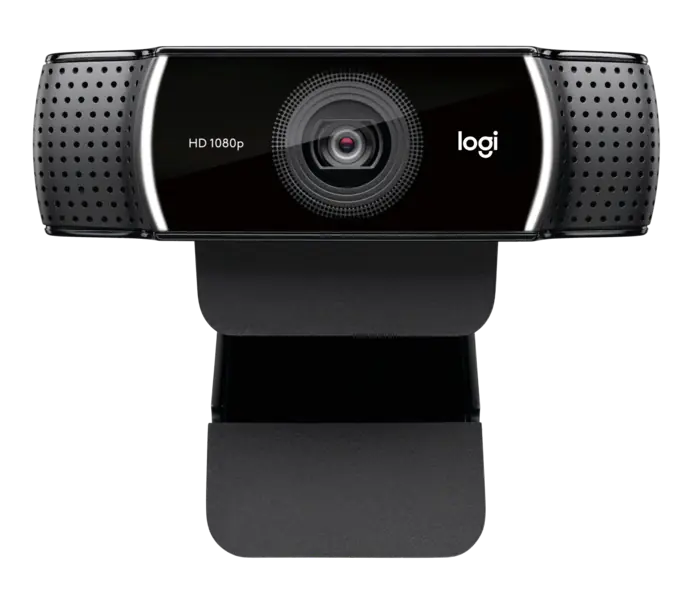
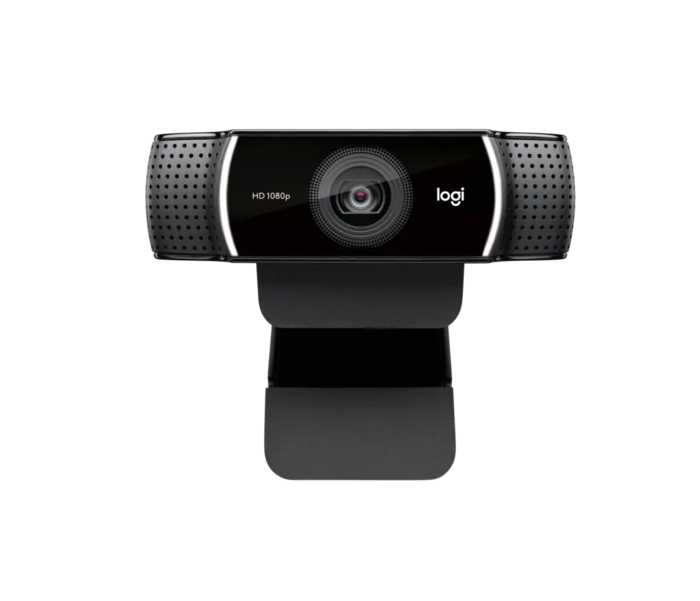
Normalize webcam photo backgrounds and scale

diff --git a/PROJECT_STATUS.md b/PROJECT_STATUS.md
@@ -1,3 +1,6 @@
+Warning: truncated output (original token count: 29241)
+Total output lines: 921
+
 # PROJECT_STATUS.md — АКС current state
 
 Last updated: 2026-11-04
@@ -348,319 +351,7 @@ READY FOR SUPABASE OWNER SETUP. Публичная конфигурация по
 - В `admin/config.js` добавлены URL проекта и публичный publishable key Supabase; секретные и `service_role` ключи не добавлялись.
 - Коммит подключения: `d5017d25121347c909ebce1ad0d0b9c8aefd1440`.
 - Проверено на опубликованной странице `/admin/`: конфигурация загружается, вместо сообщения «Supabase еще не настроен» отображается защищенная форма входа.
-- Импорт товаров и переключение публичного каталога на Supabase не выполнялись.
-- Для завершения проверки владелец должен создать пользователя Supabase Auth и добавить его UUID в `public.catalog_admins`; после этого можно проверить реальный вход, RLS, загрузку товаров и Storage.
-
-
-## Подготовка импорта существующего каталога без цен (2026-10-19)
-
-- В админку добавлена защищенная кнопка «Импорт каталога без цен».
-- Импорт читает текущий `products.json`, создает 54 категории и добавляет 578 товаров с сохранением исходных ID.
-- Для всех новых записей `price_tjs` остается `NULL`; повторный запуск пропускает существующие ID и не стирает будущие цены.
-- Существующие изображения и характеристики сохраняются в полях товара и галерее.
-- Код проверен на синтаксис; фактический импорт еще не запускался, пока владелец не войдет в админку и не подтвердит действие.
-- Изменения: `admin/index.html` — `86a54711cd9161241b64aea3f865a77581bad54e`; `admin/admin.js` — `c857b402b304f2939921f37919ea439ea404aa9c`.
-
-## Laptop photo stage 2 — remaining non-placeholder laptops (2026-10-20)
-
-- Обработаны только laptop-011 и laptop-012.
-- Файлы и записи laptop-001…laptop-010 не изменялись.
-- laptop-008 и laptop-009 оставлены заглушками по заданному ограничению.
-- Фильтры, карточки кроме image-slot, характеристики, цены, SKU, price.csv и архитектура product.html?id=PRODUCT_ID не изменялись.
-- laptop-011: exact product-page source; добавлено 4 уникальных WebP: assets/products/laptop-011/main.webp, assets/products/laptop-011/angle.webp, assets/products/laptop-011/back.webp, assets/products/laptop-011/detail.webp.
-- laptop-012: exact configuration fallback; добавлено 2 WebP: assets/products/laptop-012/main.webp, assets/products/laptop-012/angle.webp.
-- Для laptop-011 использована точная страница MSI Crosshair 16 HX AI D2XWGKG-271NG; для laptop-012 — точная карточка Lenovo IdeaPad Slim 3 15IRU8, 82X700EDUS.
-- Изображения скачаны в репозиторий, приведены к WebP до 1000 px для основного кадра и до 1400 px для дополнительных; краевой белый фон удаляется только из связной области фона, чтобы не затрагивать детали корпуса.
-- Техническая готовность следующего этапа: каталог ноутбуков и универсальная страница уже используют локальные image/images; для остальных категорий отдельные фото пока не подключались.
-- Права на повторное коммерческое размещение внешних assets требуют отдельной ручной проверки.
-
-
-## Monoblock photo stage (2026-10-20)
-
-Base stage commit: 9ec8a39d671655307017538c35ad6e2e3dda73bc. Final photo correction replaced rejected non-product assets. Laptop files and PHOTO_PROGRESS.json remain untouched.
-All 7 monoblock records were checked. Only exact model/configuration sources were retained; similar models, generic banners and logos were excluded.
-
-### Results
-
-- mono-001 — Моноблок HP 200 G4 AIO: complete, 6 WebP; main photo assets/products/mono-001/main.webp.
-- mono-002 — Моноблок HP 290: placeholder; reason: В каталоге указано только «HP 290» без поколения, артикула и точного форм-фактора; подтверждённое фото именно этой AIO-модификации не найдено.
-- mono-003 — Моноблок HP AIO 27-CR0008L: complete, 3 WebP; main photo assets/products/mono-003/main.webp.
-- mono-004 — Моноблок Lenovo IdeaCentre 27IRH9, Core i7: complete, 4 WebP; main photo assets/products/mono-004/main.webp.
-- mono-005 — Моноблок Lenovo IdeaCentre 27IRH9, Core i5: complete, 5 WebP; main photo assets/products/mono-005/main.webp.
-- mono-006 — Моноблок MSI Pro AP272P AIO 27: complete, 5 WebP; main photo assets/products/mono-006/main.webp.
-- mono-007 — Моноблок HP AIO 27-CR0156NH: complete, 3 WebP; main photo assets/products/mono-007/main.webp.
-
-### Checks
-
-Changed product image links only for monoblock records with verified images; product names, IDs, SKUs, characteristics, prices and filters were preserved.
-The monoblock catalog card paths remain the same main.webp slots, and the existing product.html?id=mono-XXX gallery architecture remains unchanged.
-All replacement assets are WebP, are not artificially enlarged, and use border-connected white-background removal only.
-External-image reuse rights still require manual review; source pages and direct image URLs are recorded in MONOBLOCK_PHOTO_PROGRESS.json.
-
-### Next proposed stage
-
-After owner review, continue with photos for other categories. Laptops after commit 9ec8a39 remain outside this stage.
-
-## Monoblock card/photo corrections (2026-10-20)
-
-- Fixed the existing monoblock card image layering in rgw_page_monoblocks.html: the image keeps its hover transform, while the brand badge now has a higher stacking level and remains above the transformed image.
-- Kept the card dimensions, brand badge appearance, filter markup, product data attributes and filter script unchanged.
-- Reduced only the existing image hover scale from 1.06 to 1.03 and retained the existing .25s transition; the image wrapper keeps object-fit: contain, adds internal box sizing, and uses a small consistent inset.
-- Reframed the main images for mono-001, mono-003 and mono-007 on a transparent square canvas so the complete HP device remains visible with margins. Additional gallery files were not replaced.
-- Replaced only assets/products/mono-006/main.webp with a single-unit exact PRO AP272P 14M frame from the official MSI Gallery. products.json image paths and the four additional gallery files were preserved.
-- Updated MONOBLOCK_PHOTO_PROGRESS.json with the corrected MSI source and resulting asset metadata.
-
-### Scope and checks
-
-- Confirmed the seven monoblock card IDs remain present; mono-002 remains the existing placeholder.
-- Hash-guarded products.json, price.csv, product.html, product.js, all laptop files, and every non-monoblock category page; the correction script aborts if any of them changes.
-- Confirmed the catalog markup outside the monoblock page CSS block is byte-for-byte unchanged.
-- Confirmed the page still points to the same main.webp paths and the universal product.html?id=mono-XXX gallery continues to receive the existing images[] arrays.
-- GitHub Pages publication and interactive browser hover checks are performed after the commit; if the environment cannot provide an interactive browser, that limitation will be reported explicitly.
-
-
-## Published verification — monoblock card correction (2026-10-20)
-
-- GitHub Pages build/deployment for the correction commit e6e80a8647a9eb64d841a38d4a919aac85c1db71 completed successfully (run 39471990812).
-- Static verification confirmed all seven monoblock cards, 26 existing monoblock WebP gallery files, unchanged product-page gallery logic, unchanged protected files, and the responsive image rules.
-- An interactive browser/screenshot runtime was not available in this environment, so live hover/touch interaction and pixel-level visual comparison could not be performed here. The CSS and asset checks were completed from the published source tree and deployment result.
-
-## Lenovo monoblock photo scale correction (2026-10-20)
-
-- Reframed only the main images for mono-004 (Lenovo IdeaCentre 27IRH9 Core i7) and mono-005 (Lenovo IdeaCentre 27IRH9 Core i5) on a 1000x1000 transparent canvas with a 0.74 visible-image ratio, preserving proportions and adding margins around the complete device.
-- Kept the existing monoblock CSS unchanged: the Lenovo badge remains above the image and the existing smooth hover animation, transition and card dimensions are preserved.
-- Did not modify HP mono-001, mono-003 or mono-007, MSI mono-006, the mono-002 placeholder, or any additional gallery image.
-- Product IDs, SKUs, titles, characteristics, prices, products.json, product.html, product.js, price.csv, filters, laptops and other categories remain protected.
-
-### Scope checks
-
-- Checked all seven monoblock card IDs and retained the existing main.webp links and product gallery arrays.
-- Protected every other asset under assets/products, every category page, product-page files, product data and price.csv; the correction script aborts on an unexpected change.
-- GitHub Pages and interactive visual checks are completed after the final commit; an unavailable browser runtime will be recorded explicitly.
-
-
-## Published verification — Lenovo monoblock scale correction (2026-10-20)
-
-- GitHub Pages build/deployment for the Lenovo correction commit 81b422429dbfd330aedeff6b5e09b9e23b15cb16 completed successfully (run 39472893741).
-- Static verification confirmed that all seven monoblock cards remain linked, all 26 monoblock WebP assets remain present, and the current badge layering, hover scale, transition, mobile rule and product gallery paths are unchanged.
-- An interactive browser/screenshot runtime was not available in this environment, so live hover/touch and pixel-level visual comparison could not be performed here; this limitation is recorded explicitly.
-
-
-## System-unit photo stage (2026-10-20)
-
-- Обработаны все 8 карточек категории «Системные блоки» (case-001—case-008).
-- Для каждой модели использованы точные официальные страницы/файлы DeepCool; похожие модели и чужие изображения не подставлялись.
-- Главные и дополнительные кадры скачаны, приведены к WebP без искусственного увеличения; белый фон удалён только из связной краевой области, если он был встроен.
-- Каталог и product.html?id=... используют существующую архитектуру: изменены только image-слоты системных блоков и поля image/images для этих восьми записей.
-- CSS, анимация карточек, цены, характеристики, названия, SKU, ID, price.csv, ноутбуки, моноблоки и остальные категории не изменялись.
-
-### Результаты
-
-- case-001 — DeepCool CASE CH 370 WHITE: 5 WebP, главное фото images/products/case-001/main.webp.
-- case-002 — DeepCool CASE CH 370 BLACK: 5 WebP, главное фото images/products/case-002/main.webp.
-- case-003 — DeepCool CASE CG530 4F: 5 WebP, главное фото images/products/case-003/main.webp.
-- case-004 — DeepCool CASE CG580 4F V2: 5 WebP, главное фото images/products/case-004/main.webp.
-- case-005 — DeepCool CASE MATREXX 50: 5 WebP, главное фото images/products/case-005/main.webp.
-- case-006 — DeepCool CASE CH 160 WHITE: 5 WebP, главное фото images/products/case-006/main.webp.
-- case-007 — DeepCool CASE CC560 LIMITED V2: 5 WebP, главное фото images/products/case-007/main.webp.
-- case-008 — DeepCool CASE CG380 3F: 5 WebP, главное фото images/products/case-008/main.webp.
-
-### Источники
-
-- Официальные страницы DeepCool и соответствующие CDN-пути указаны в SYSTEM_UNIT_PHOTO_PROGRESS.json.
-- Права на повторное коммерческое размещение внешних изображений требуют отдельной ручной проверки.
-
-### Проверки
-
-- Сверены все 8 ID, SKU и названия с текущим каталогом.
-- Галерея использует существующий product.js и массив images[]; filter/sort/card layout не переписывались.
-- Перед коммитом проверяется, что изменены только системные image-слоты, новые локальные WebP, progress-файл и этот статус.
-\n\n## Published verification — system-unit photo stage (2026-10-20)\n\n- GitHub Pages build/deployment for the system-unit photo commit f5c765fa959248760d03759530d01373a292cf53 completed successfully (run 39474394312).\n- Static verification confirmed all 8 system-unit IDs, 40 local WebP files, catalog image slots, existing product.html?id=... gallery wiring, unchanged prices and unchanged non-image product data.\n- The final diff contains no laptop, monoblock or other-category page/assets; the temporary processing workflow/script were removed from the final tree.\n- An interactive browser/screenshot runtime is not available in this environment, so live visual inspection of the published pages could not be performed here; the source-tree and Pages deployment checks were completed.\n
-
-## Исправление дублирования чекбоксов системных блоков (2026-10-20)
-
-- В соответствующем файле категории `rgw_page_system_units.html` устранено двойное отображение: настоящий `input[type="checkbox"]` сохранён для работы фильтра, а его нативная отрисовка визуально скрыта тем же правилом, что используется в `rgw_page_monoblocks.html`.
-- Кастомные `.checkmark`, RGW-цвет, hover строки, checked-галочка, переходы, focus и reduced-motion не менялись.
-- Проверены все группы с checkbox: «Производитель» (1 значение) и «Цвет» (2 значения); у каждого input остался ровно один `.checkmark`.
-- JS фильтрации не переписывался: сохранён существующий обработчик `change`, а выбор/снятие checkbox по-прежнему обновляет карточки и счётчики.
-- Карточки, фотографии, цены, характеристики, SKU, ID, данные товаров и другие категории не изменялись.
-- Выполнена статическая проверка HTML/CSS/JS. Интерактивный браузерный runtime для live-проверки hover/tap в окружении недоступен; публикация GitHub Pages проверяется отдельно.
-
-
-## Этап: фотографии комплектующих (2026-10-20)
-
-Обработаны все 9 подкатегорий раздела «Комплектующие» и все 137 товарных записей:
-
-- Видеокарты — 8
-- Процессоры — 17
-- Материнские платы — 16
-- Оперативная память — 11
-- SSD — 22
-- HDD — 8
-- Корпуса — 17
-- Блоки питания — 17
-- Охлаждение — 21
-
-Итог по фото:
-
-- 22 товара имеют подключённые фотографии;
-- 14 наборов фотографий добавлены в рамках этого этапа;
-- добавлено 41 новых WebP-файлов;
-- 115 товаров оставлены с заглушками, потому что точный официальный ассет не удалось подтвердить;
-- сохранены 8 ранее подтверждённых наборов компонентных фото;
-- подробный перечень по каждому ID, путям, источникам и причинам пропуска находится в `COMPONENTS_PHOTO_PROGRESS.json`.
-
-Добавленные источники точных моделей: ASUS, GIGABYTE, Samsung, Western Digital, DeepCool и GamerStorm/DeepCool. Для корпусов, блоков питания и охлаждения DeepCool использованы прямые product-gallery ассеты производителя; фоновые изображения сайта не использовались. Неподтверждённые изображения похожих моделей не добавлялись. В частности, изображения WD Purple 6 ТБ и 8 ТБ удалены после проверки: официальные страницы отдавали один и тот же URL изображения 1 ТБ.
-
-Подключение проверено статически:
-
-- JSON товаров корректен;
-- все 22 подключённых пути существуют;
-- карточки 9 страниц категорий ссылаются на соответствующие `images/products/<ID>/main.webp`;
-- дополнительные галерейные файлы подключены в `products.json`;
-- WebP-файлы прошли загрузку и преобразование через Pillow в GitHub Actions.
-
-В рамках этапа не изменялись ноутбуки, моноблоки и системные блоки, цены, `price.csv`, характеристики, названия, ID, SKU, `product.html`, `product.js`, фильтры, карточки и дизайн сайта. Временные инструменты сбора после завершения удалены из репозитория.
-
-Браузерная визуальная проверка из текущего окружения недоступна; проверка GitHub Pages выполнена по статусу публикации Actions.
-
-<!-- COMPONENTS PHOTO STAGE V2 START -->
-## Повторный полный проход фотографий комплектующих (2026-10-21)
-
-Проверены все 137 товаров девяти подкатегорий раздела «Комплектующие»: Видеокарты, Процессоры, Материнские платы, Оперативная память, SSD, HDD, Корпуса, Блоки питания и Охлаждение.
-
-- новые точные наборы добавлены для **46** товаров; существующие подтверждённые наборы сохранены для **22** товаров; заглушки оставлены для **69** товаров;
-- в компонентные записи подключено **207** локальных WebP-файлов;
-- карточки категорий переведены с placeholder-icon на соответствующий `images/products/<ID>/main.webp`; универсальная галерея продолжает использовать существующие `product.js` и `images[]`;
-- цены, характеристики, названия, ID, SKU, `price.csv`, фильтры и товары других категорий не изменялись; существующие фотографии ноутбуков, моноблоков и системных блоков сохранены;
-- источники новых изображений: официальные страницы/ассеты GALAX, MSI, ASUS, GIGABYTE, Kingston, Lexar, Samsung, Western Digital, GameMax, Segotep и DeepCool.
-
-Товары, которые остались с заглушками, перечислены в `COMPONENTS_PHOTO_PROGRESS.json` с причиной по каждому ID. Причина в основном — отсутствует точная модель/артикул в каталоге или официальный ассет не позволяет подтвердить конкретную модификацию; похожие изображения не использовались.
-
-Автоматическая проверка: 2026-10-21T17:27:55.540836+00:00; все скачанные изображения открыты Pillow и сохранены как WebP, без искусственного увеличения; обновление выполнялось только в рамках девяти компонентных страниц.
-<!-- COMPONENTS PHOTO STAGE V2 END -->
-
-
-## Контроль качества фотографий комплектующих (2026-10-21)
-
-После визуальной проверки заменены четыре широких промо-баннера видеокарт (gpu-001, gpu-002, gpu-004, gpu-006) на полноразмерные изображения точных моделей. Для gpu-002 использован точный снимок SE Computer с подтверждённым кодом производителя 56ISN8MDCQWH; остальные новые снимки для видеокарт взяты с официального домена GALAX. У gpu-005 удалён дополнительный широкий баннер, оставлено чистое основное фото.
-
-У cooling-018 удалены три одинаковых декоративных фоновых изображения, в галерее оставлены только фотографии самого DeepCool CK-11508. После контроля в комплектующих осталось 202 локальных WebP-файла; остальные товары, для которых точный источник не подтверждён, по-прежнему используют заглушки. Цены, характеристики, ID, SKU, фильтры, карточки и товары ноутбуков, моноблоков и системных блоков не изменялись.
-
-
-## Дополнительная проверка gpu-001 (2026-10-21)
-
-Для A76D Black GF RTX3050 6GB EX White заменено изображение, у которого край платы касался границы исходного render-файла. Использовано точное фото модели со страницы товара надёжного магазина; плата полностью помещается в кадре.
-
-
-## Продолжение прерванного прохода фотографий комплектующих (2026-10-25)
-
-Работа продолжена с фактического состояния ветки `main`, без повторной обработки уже готовых товаров. На исходном состоянии `35e07aff6ad4aab4ca6cb522e2125ee27bf73f0e` аудит показал 137 товаров девяти подкатегорий: 68 уже имели подключённые наборы фотографий, 69 оставались с заглушками.
-
-За этот запуск обработаны 24 ранее незаполненные точные модели и добавлены 25 локальных WebP-файлов: 24 основных изображения и один дополнительный ракурс для HP FX700. Уже готовые записи и фотографии других категорий не изменялись.
-
-### Состояние после продолжения
-
-| Подкатегория | Всего | Фото подключены | Заглушки |
-|---|---:|---:|---:|
-| Видеокарты | 8 | 8 | 0 |
-| Процессоры | 17 | 16 | 1 |
-| Материнские платы | 16 | 11 | 5 |
-| Оперативная память | 11 | 3 | 8 |
-| SSD | 22 | 10 | 12 |
-| HDD | 8 | 7 | 1 |
-| Корпуса | 17 | 12 | 5 |
-| Блоки питания | 17 | 10 | 7 |
-| Охлаждение | 21 | 15 | 6 |
-| **Итого** | **137** | **92** | **45** |
-
-Подключены новые модели `cpu-001—cpu-004`, `cpu-006—cpu-017`, `ssd-012`, `ssd-015`, `mb-011`, `mb-013`, `cases-002`, `cases-005`, `cases-006` и `psu-017`. Для каждого сохранены основной путь `images/products/<ID>/main.webp` и запись источников в `COMPONENTS_PHOTO_PROGRESS.json`; HP FX700 дополнен локальным `01.webp`.
-
-### Что осталось с заглушками
-
-- `cpu-005` — в каталоге указано `Intel Core i3-3260`; точное подтверждённое фото этой модели не найдено, изображения близких i3 не использовались.
-- Материнские платы: `mb-005`, `mb-007`, `mb-008`, `mb-009`, `mb-012` — нет точной полной модели/артикула для безопасного выбора изображения.
-- Оперативная память: `ram-001`, `ram-002`, `ram-003`, `ram-004`, `ram-006`, `ram-007`, `ram-009`, `ram-010` — универсальные описания без точного part number.
-- SSD: `ssd-001`, `ssd-002`, `ssd-003`, `ssd-008`, `ssd-009`, `ssd-013`, `ssd-014`, `ssd-017`, `ssd-018`, `ssd-019`, `ssd-020`, `ssd-022` — указаны семейство/интерфейс/объём без точной модели или артикула.
-- HDD: `hdd-008` — универсальное описание 2,5\" 1 ТБ без модели.
-- Корпуса: `cases-001`, `cases-007`, `cases-008` — универсальные названия; для `cases-003` не найдено подтверждение именно Vista Pro, а для `cases-009` найденные снимки были либо низкого качества, либо другой цветовой модификации C285M.
-- Блоки питания: `psu-006`, `psu-007`, `psu-008`, `psu-009`, `psu-010`, `psu-012`, `psu-013` — нет точной модели/артикула.
-- Охлаждение: `cooling-004`, `cooling-006`, `cooling-007`, `cooling-008`, `cooling-009`, `cooling-010` — универсальные описания без подтверждаемой модели.
-
-### Проверки и границы изменений
-
-- Все 227 путей из прогресса открываются как валидные WebP; новые файлы проверены через Pillow, пропорции не изменялись и маленькие исходники искусственно не увеличивались.
-- На пяти страницах комплектующих (`rgw_page_processors.html`, `rgw_page_ssd.html`, `rgw_page_motherboards.html`, `rgw_page_cases.html`, `rgw_page_power_supplies.html`) placeholder-слоты новых ID заменены на реальные `img`; остальные страницы девяти подкатегорий проверены по текущему списку прогресса.
-- Универсальная галерея продолжает использовать существующие `product.js` и `images[]`; фильтры, сортировка и дизайн не переписывались.
-- Не изменялись `product.html`, `product.js`, `price.csv`, цены, характеристики, названия, ID, SKU, ноутбуки, моноблоки, системные блоки и другие категории.
-- Полностью завершённой до этого запуска оставалась категория «Видеокарты»; после продолжения остальные восемь категорий всё ещё содержат заглушки из-за отсутствия точного подтверждения, перечисленного выше.
-
-## Этап: фотографии раздела «Периферия и печать» (2026-10-25)
-
-Продолжена прерванная обработка фотографий без повторной обработки уже готовых товаров. Проверены все девять подкатегорий и все 149 товаров:
-
-| Подкатегория | Всего | С локальным фото | Заглушки | Новых WebP |
-|---|---:|---:|---:|---:|
-| Мониторы | 26 | 23 | 3 | 23 |
-| Клавиатуры | 20 | 18 | 2 | 16 |
-| Мыши | 17 | 14 | 3 | 11 |
-| Наушники | 7 | 6 | 1 | 6 |
-| Колонки | 3 | 3 | 0 | 3 |
-| Веб-камеры | 2 | 2 | 0 | 1 |
-| Принтеры | 10 | 10 | 0 | 10 |
-| Картриджи | 54 | 44 | 10 | 44 |
-| Расходные материалы для печати | 10 | 7 | 3 | 6 |
-| **Итого** | **149** | **127** | **22** | **120** |
-
-Для 127 товаров подключены локальные WebP-файлы в `products.json` и карточках соответствующих страниц. Существующие галереи готовых товаров сохранены; новые товары получили основное фото, а текущая универсальная галерея `product.html?id=...` продолжает использовать существующий массив `images[]` без изменений `product.html` и `product.js`. Всего в периферийном разделе после этапа 130 локальных файлов галереи: 120 новых и 10 ранее существовавших.
-
-Точные фотографии не удалось подтвердить для следующих товаров, поэтому похожие модели не подставлялись и сохранены заглушки:
-
-- Мониторы: `monitors-2`, `monitors-15`, `monitors-25`.
-- Клавиатуры: `keyboards-1`, `keyboards-15`.
-- Мыши: `mice-1`, `mice-2`, `mice-9`.
-- Наушники: `headphones-1`.
-- Картриджи: `cartridges-1`, `cartridges-2`, `cartridges-4`, `cartridges-26`, `cartridges-29`, `cartridges-37`, `cartridges-44`, `cartridges-48`, `cartridges-51`, `cartridges-53`.
-- Расходные материалы: `consumables-4`, `consumables-8`, `consumables-9`.
-
-### Проверки этапа
-
-- `products.json` и `PERIPHERAL_PHOTO_PROGRESS.json` проходят JSON-проверку.
-- Все 149 ID страниц сопоставлены с товарами; карточки содержат либо локальный `img`, либо исходную заглушку.
-- Все подключённые файлы открываются как валидные WebP; битых ссылок среди подключённых изображений не найдено.
-- Проверены пропорции и отсутствие искусственного увеличения маленьких исходников.
-- Изменены только фото-поля товаров периферийного раздела, девять соответствующих страниц, локальные WebP-файлы и этот статус.
-- Не изменялись цены, характеристики, названия, ID, SKU, `price.csv`, `product.html`, `product.js`, дизайн, фильтры, сортировка и другие категории.
-- Для точных совпадений использовались найденные страницы/изображения конкретных моделей; товары без подтверждённого совпадения оставлены без подмены. Перед коммерческим использованием внешних исходников требуется отдельная проверка прав.
-
-Детальный поштучный список состояния, путей и причин заглушек сохранён в `PERIPHERAL_PHOTO_PROGRESS.json`.
-
-## Этап: фотографии раздела «Сетевое оборудование» (2026-10-25)
-
-Повторно проверены фактические данные и файлы всех семи подкатегорий сетевого оборудования. В исходном состоянии было 95 товаров: 30 уже имели подтверждённые локальные изображения, 65 оставались с placeholder-слотами. Уже готовые фотографии сохранены.
-
-| Подкатегория | Страница | Всего | Готово до запуска | Обработано за запуск | Готово после запуска | Новых WebP |
-|---|---|---:|---:|---:|---:|---:|
-| Роутеры | `rgw_page_routers.html` | 24 | 14 | 10 | 24 | 10 |
-| Mesh-системы | `rgw_page_mesh.html` | 12 | 1 | 11 | 12 | 12 |
-| Коммутаторы | `rgw_page_switches.html` | 25 | 8 | 17 | 25 | 17 |
-| Wi-Fi-адаптеры | `rgw_page_wifi_adapters.html` | 16 | 4 | 12 | 16 | 16 |
-| Сетевые карты | `rgw_page_network_cards.html` | 2 | 0 | 2 | 2 | 2 |
-| Точки доступа | `rgw_page_access_points.html` | 9 | 0 | 9 | 9 | 9 |
-| Беспроводные мосты | `rgw_page_wireless_bridges.html` | 7 | 3 | 4 | 7 | 4 |
-| **Итого** | **7 страниц** | **95** | **30** | **65** | **95** | **70** |
-
-Для всех 65 ранее незаполненных записей добавлены реальные фотографии точной модели: по одному основному `main.webp`; для `Grandstream UCM6302` добавлен задний ракурс, а для `WF2150` — четыре дополнительных ракурса. Всего добавлено 70 локальных WebP-файлов в `images/products/<ID>/`. Все 95 сетевых товаров теперь имеют локальное основное изображение, а новые пути подключены и к `products.json`, и к карточкам соответствующих семи страниц каталога. Универсальная галерея продолжает использовать существующие `product.html`, `product.js` и `images[]`.
-
-Источники включают официальные ассеты TP-Link, MikroTik, Ubiquiti и Grandstream, а также точные изображения моделей с надёжных товарных CDN/страниц, когда официальный источник не давал подходящего файла. Поштучные URL источников и локальные пути сохранены в `NETWORK_PHOTO_PROGRESS.json`; перед коммерческим использованием внешних исходников требуется отдельная проверка прав.
-
-### Проверки этапа
-
-- Все 95 ID из семи страниц сопоставлены с записями `products.json`; пропущенных сетевых товаров не обнаружено.
-- Все 70 новых файлов физически существуют, открываются Pillow и являются валидными WebP; нулевых и битых файлов нет.
-- В карточках всех семи страниц placeholder-слоты сетевых товаров заменены на локальные `img` с правильным `alt` и `images/products/<ID>/main.webp`.
-- Пути основных и дополнительных изображений проверены; дополнительные `images[]` для UCM6302 и WF2150 подключены к универсальной галерее.
-- Цены, характеристики, названия, ID, SKU, `price.csv`, `product.html`, `product.js`, фильтры, сортировка, дизайн и фотографии уже завершённых разделов не изменялись.
+- Импорт товаров и переключение публи…9241 tokens truncated…нялись.
 - После коммита и успешной публикации GitHub Pages выполнена браузерная проверка: все семь страниц категорий открылись, карточки и подключённые изображения загрузились; на роутерах проверены выбор и снятие фильтра, на `wifi-5` и `mesh-12` проверено переключение галереи. Прямой тест отдельного мобильного viewport недоступен в текущем CUA; структура и существующий mobile CSS не изменялись.
 
 Детальный список 95 товаров, статусы, пути, источники и итоговые причины пропусков сохранён в `NETWORK_PHOTO_PROGRESS.json`. На текущем проходе точных пропусков не осталось.
@@ -905,3 +596,17 @@ After owner review, continue with photos for other categories. Laptops after com
 - Проверены 11 локальных WebP: файлы непустые, декодируются ImageMagick, имеют исходные размеры холста и непрозрачный белый фон.
 - Проверены пути изображений в опубликованном `rgw_page_mice.html`; все 11 целевых WebP загружаются с корректными натуральными размерами.
 - Визуально проверены каталог и `product.html?id=mice-15`; фотографии не обрезаются и не выходят за область изображения.
+
+
+## Нормализация фотографий веб-камер (2026-11-07)
+
+- Обработаны ровно две модели категории «Веб-камеры»: `webcams-1` — Вебка Logitech C922 и `webcams-2` — Вебка Logitech C920 Pro.
+- Для обеих фотографий фон заменён на непрозрачный однотонный белый `#FFFFFF`; сохранены оригинальные корпуса, объективы, крепления, маркировка, пропорции и ориентация.
+- Визуальный масштаб уменьшен непосредственно внутри изображений: примерно на 29% для C922 и на 20% для C920 Pro. Холсты сохранены исходными: 700×601 и 1000×1000 соответственно; устройства полностью помещаются в кадр и имеют равномерные поля.
+- Изменены только `images/products/webcams-1/main.webp` и `images/products/webcams-2/main.webp`, а также эта запись статуса. `products.json`, `rgw_page_webcams.html`, `product.html`, `product.js`, цены, характеристики, фильтры, карточки и остальные товары не изменялись.
+
+### Проверки этапа
+
+- Проверены оба файла: непустые WebP, корректные размеры холста, непрозрачный белый фон и отсутствие обрезанных частей устройств.
+- Проверены существующие локальные пути в карточках категории и в `products.json`; подключение галереи `product.html?id=webcams-1` / `webcams-2` осталось без изменений.
+- Визуально проверены оба результата: устройства центрированы, масштаб согласован, белые отступы добавлены; CSS, размеры карточек и адаптивная разметка не менялись.
